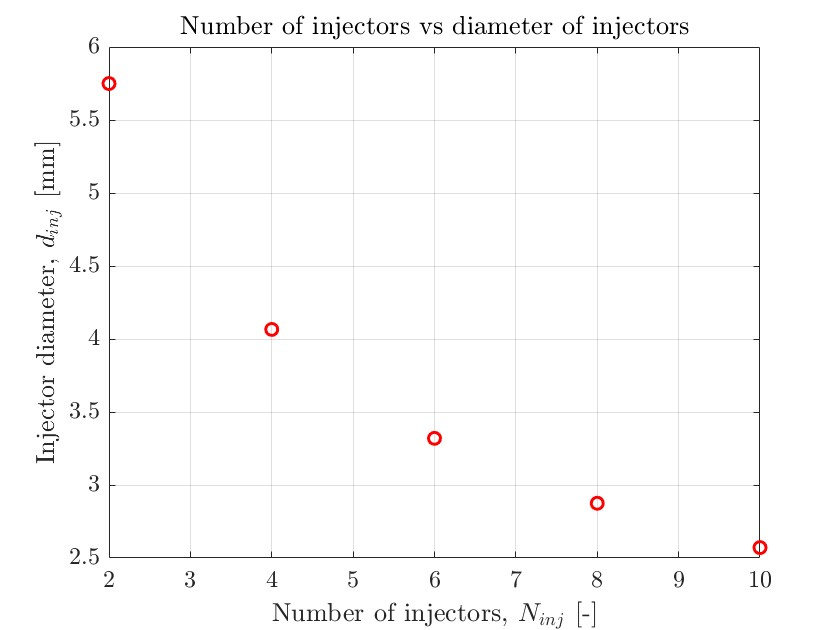
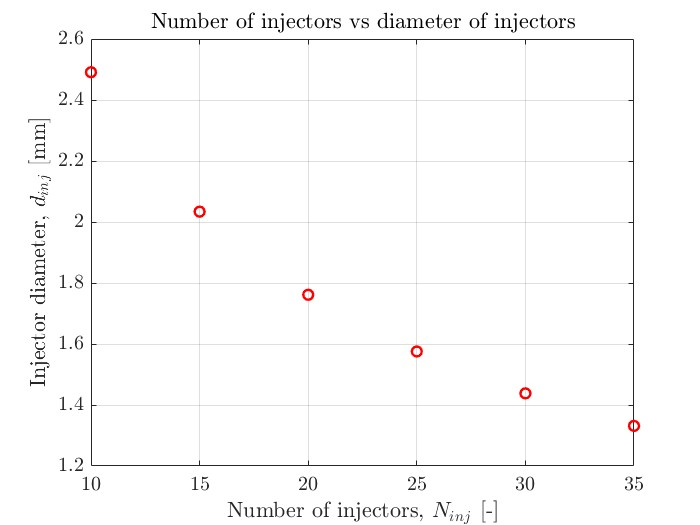
c

diff --git a/Perdite_di_carico_half_inch.m b/Perdite_di_carico_half_inch.m
@@ -434,8 +434,8 @@ clear gamma11_new
 delta_P_inj = 0.4*100*sqrt(10*P11*1e5); % Pressure drop across the injection plate [Pa] 
 P12 = P11 - delta_P_inj*1e-5;           % Pressure in the test chamber [bar]
 
-N_inj = [2 4 6 8 10];
-C_d = 0.61;                              % Sharp-edged orifice with diameter greater than 2.5 mm
+N_inj = [10 15 20 25 30 35];
+C_d = 0.65;                                 % Sharp-edged orifice with diameter smaller than 2.5 mm
 A_needed = m_dot_N2/(C_d*sqrt(2*delta_P_inj*rho11));
 A_inj = A_needed./N_inj;
 d_inj = sqrt((4*A_inj)/pi);

diff --git a/Perdite_di_carico_10mm.m b/Perdite_di_carico_10mm.m
@@ -434,8 +434,8 @@ clear gamma11_new
 delta_P_inj = 0.4*100*sqrt(10*P11*1e5); % Pressure drop across the injection plate [Pa] 
 P12 = P11 - delta_P_inj*1e-5;           % Pressure in the test chamber [bar]
 
-N_inj = [2 4 6 8 10];
-C_d = 0.61;                              % Sharp-edged orifice with diameter greater than 2.5 mm
+N_inj = [10 15 20 25 30 35];
+C_d = 0.65;                                % Sharp-edged orifice with diameter smaller than 2.5 mm
 A_needed = m_dot_N2/(C_d*sqrt(2*delta_P_inj*rho11));
 A_inj = A_needed./N_inj;
 d_inj = sqrt((4*A_inj)/pi);

diff --git a/Perdite_di_carico_3quarters_inch.m b/Perdite_di_carico_3quarters_inch.m
@@ -434,8 +434,8 @@ clear gamma11_new
 delta_P_inj = 0.4*100*sqrt(10*P11*1e5); % Pressure drop across the injection plate [Pa] 
 P12 = P11 - delta_P_inj*1e-5;           % Pressure in the test chamber [bar]
 
-N_inj = [2 4 6 8 10];
-C_d = 0.61;                              % Sharp-edged orifice with diameter greater than 2.5 mm
+N_inj = [10 15 20 25 30 35];
+C_d = 0.65;                               % Sharp-edged orifice with diameter smaller than 2.5 mm
 A_needed = m_dot_N2/(C_d*sqrt(2*delta_P_inj*rho11));
 A_inj = A_needed./N_inj;
 d_inj = sqrt((4*A_inj)/pi);

diff --git a/Perdite_di_carico_quarterinch.m b/Perdite_di_carico_quarterinch.m
@@ -434,8 +434,8 @@ clear gamma11_new
 delta_P_inj = 0.4*100*sqrt(10*P11*1e5); % Pressure drop across the injection plate [Pa] 
 P12 = P11 - delta_P_inj*1e-5;           % Pressure in the test chamber [bar]
 
-N_inj = [2 4 6 8 10];
-C_d = 0.61;                              % Sharp-edged orifice with diameter greater than 2.5 mm
+N_inj = [10 15 20 25 30 35];
+C_d = 0.65;                               % Sharp-edged orifice with diameter smaller than 2.5 mm
 A_needed = m_dot_N2/(C_d*sqrt(2*delta_P_inj*rho11));
 A_inj = A_needed./N_inj;
 d_inj = sqrt((4*A_inj)/pi);

diff --git a/Perdite_di_carico_6mm.m b/Perdite_di_carico_6mm.m
@@ -434,8 +434,8 @@ clear gamma11_new
 delta_P_inj = 0.4*100*sqrt(10*P11*1e5); % Pressure drop across the injection plate [Pa] 
 P12 = P11 - delta_P_inj*1e-5;           % Pressure in the test chamber [bar]
 
-N_inj = [2,4,6,8,10];
-C_d = 0.61;                              % Sharp-edged orifice with diameter greater than 2.5 mm
+N_inj = [10 15 20 25 30 35];
+C_d = 0.65;                              % Sharp-edged orifice with diameter smaller than 2.5 mm
 A_needed = m_dot_N2/(C_d*sqrt(2*delta_P_inj*rho11));
 A_inj = A_needed./N_inj;
 d_inj = sqrt((4*A_inj)/pi);
